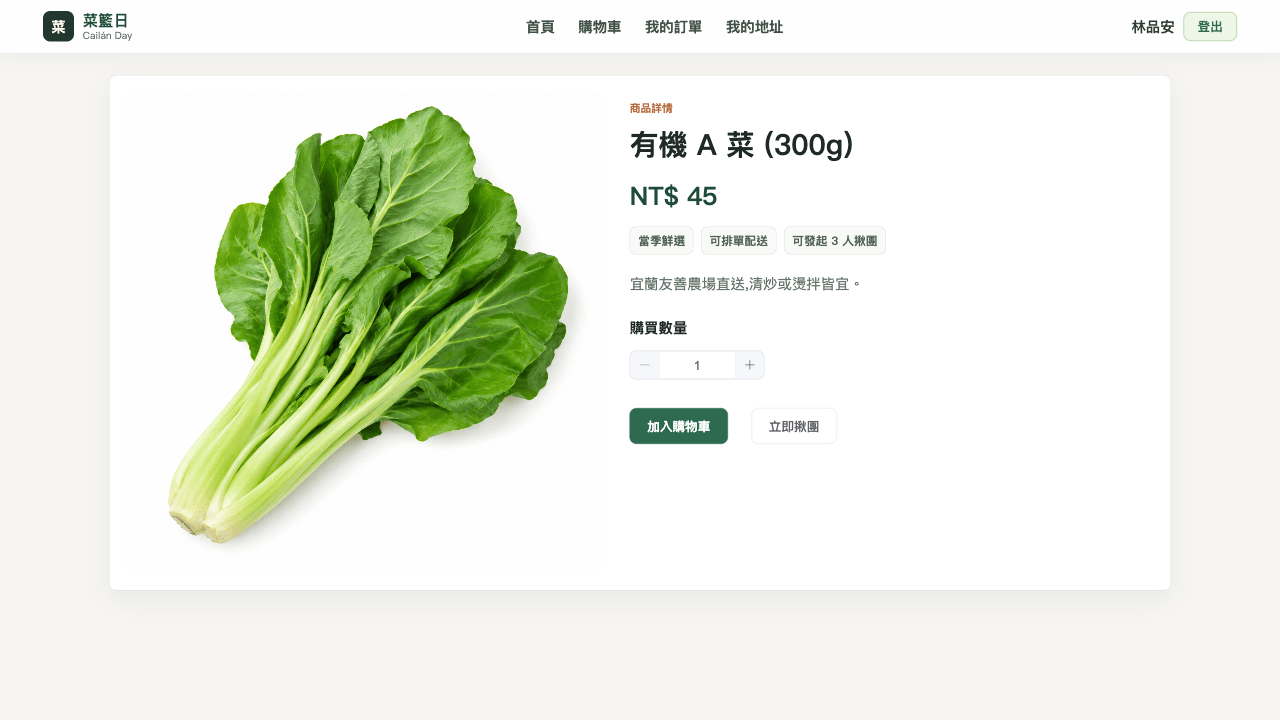
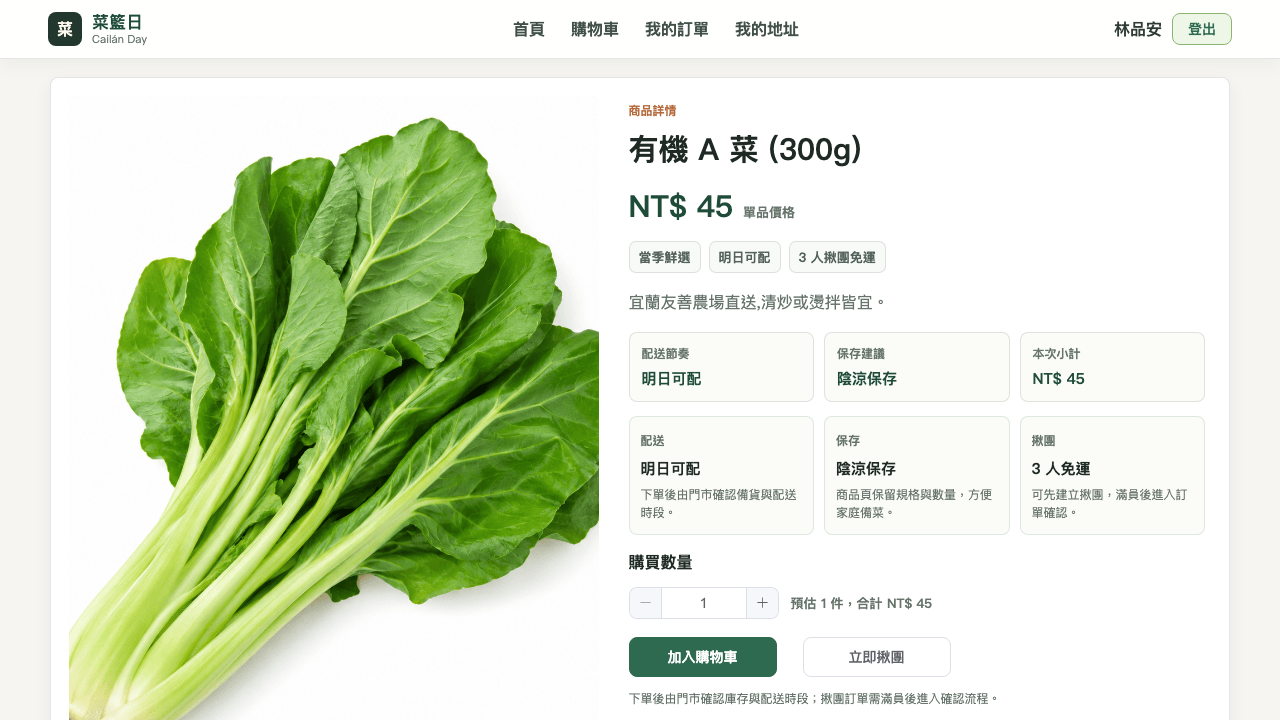
style: refine product detail conversion

diff --git a/frontend-environment/local-fresh-user/src/views/ProductDetailView.vue b/frontend-environment/local-fresh-user/src/views/ProductDetailView.vue
@@ -12,13 +12,31 @@
         <div class="content-panel">
           <p class="eyebrow">商品詳情</p>
           <h1>{{ product.productName }}</h1>
-          <p class="price">NT$ {{ formatPrice(product.price) }}</p>
+          <div class="price-row">
+            <p class="price">NT$ {{ formatPrice(product.price) }}</p>
+            <span>{{ unitLabel }}</span>
+          </div>
           <div class="detail-meta">
             <span>{{ product.categoryName || '當季鮮選' }}</span>
-            <span>可排單配送</span>
-            <span>可發起 3 人揪團</span>
+            <span>{{ deliverySignal }}</span>
+            <span>3 人揪團免運</span>
           </div>
           <p class="description">{{ product.description || '來自在地產區的當季鮮選，適合日常料理與家庭備菜。' }}</p>
+
+          <div class="purchase-summary" aria-label="商品採買摘要">
+            <div>
+              <span>配送節奏</span>
+              <strong>{{ deliverySignal }}</strong>
+            </div>
+            <div>
+              <span>保存建議</span>
+              <strong>{{ storageSignal }}</strong>
+            </div>
+            <div>
+              <span>本次小計</span>
+              <strong>NT$ {{ formatPrice(lineTotal) }}</strong>
+            </div>
+          </div>
 
           <div class="assurance-grid" aria-label="購買與配送資訊">
             <section v-for="item in purchaseAssurance" :key="item.label" class="assurance-item">
@@ -43,16 +61,32 @@
 
           <div class="quantity-panel">
             <h2>購買數量</h2>
-            <el-input-number v-model="quantity" :min="1" :max="99" />
+            <div class="quantity-row">
+              <el-input-number v-model="quantity" :min="1" :max="99" />
+              <span>預估 {{ quantity }} 件，合計 NT$ {{ formatPrice(lineTotal) }}</span>
+            </div>
           </div>
 
           <div class="actions">
             <el-button type="success" size="large" :loading="submittingCart" @click="handleAddToCart">
               加入購物車
             </el-button>
-            <el-button size="large" :loading="groupBuySubmitting" @click="openGroupBuyDialog">
+            <el-button size="large" plain :loading="groupBuySubmitting" @click="openGroupBuyDialog">
               立即揪團
             </el-button>
+          </div>
+
+          <p class="action-note">下單後由門市確認庫存與配送時段；揪團訂單需滿員後進入確認流程。</p>
+
+          <div class="route-panel" aria-label="採買路徑">
+            <div>
+              <strong>一般採買</strong>
+              <span>加入購物車後可與其他商品一起結算。</span>
+            </div>
+            <div>
+              <strong>揪團免運</strong>
+              <span>建立 3 人團，分享連結邀請朋友加入。</span>
+            </div>
           </div>
         </div>
       </div>
@@ -267,24 +301,59 @@ const specOptions = computed(() => {
   }))
 })
 
+const categoryName = computed(() => product.value?.categoryName || '')
+
+const isColdChainProduct = computed(() =>
+  categoryName.value.includes('海鮮') || categoryName.value.includes('肉')
+)
+
+const isChilledProduct = computed(() =>
+  isColdChainProduct.value || categoryName.value.includes('蛋') || categoryName.value.includes('奶')
+)
+
+const deliverySignal = computed(() => {
+  if (isColdChainProduct.value) {
+    return '冷鏈排單'
+  }
+  if (isChilledProduct.value) {
+    return '冷藏配送'
+  }
+  return '明日可配'
+})
+
+const storageSignal = computed(() => {
+  if (isColdChainProduct.value) {
+    return '收到後冷凍'
+  }
+  if (isChilledProduct.value) {
+    return '收到後冷藏'
+  }
+  return '陰涼保存'
+})
+
+const unitLabel = computed(() => {
+  if (!selectedSpec.value) {
+    return '單品價格'
+  }
+  return selectedSpec.value
+})
+
+const lineTotal = computed(() => Number(product.value?.price || 0) * quantity.value)
+
 const purchaseAssurance = computed(() => {
   if (!product.value) {
     return []
   }
 
-  const category = product.value.categoryName || ''
-  const isColdChain = category.includes('海鮮') || category.includes('肉')
-  const isChilled = isColdChain || category.includes('蛋') || category.includes('奶')
-
   return [
     {
       label: '配送',
-      value: isColdChain ? '冷鏈排單' : isChilled ? '冷藏配送' : '明日可配',
+      value: deliverySignal.value,
       caption: '下單後由門市確認備貨與配送時段。'
     },
     {
       label: '保存',
-      value: isColdChain ? '收到後冷凍' : isChilled ? '收到後冷藏' : '陰涼保存',
+      value: storageSignal.value,
       caption: '商品頁保留規格與數量，方便家庭備菜。'
     },
     {
@@ -480,7 +549,7 @@ onMounted(() => {
 .detail-shell {
   max-width: 1180px;
   margin: 0 auto;
-  padding: 24px 0 48px;
+  padding: 18px 0 48px;
 }
 
 .detail-card {
@@ -491,7 +560,7 @@ onMounted(() => {
   border: 1px solid var(--farm-line);
   border-radius: 8px;
   background: var(--farm-surface);
-  box-shadow: 0 10px 28px rgba(28, 39, 32, 0.06);
+  box-shadow: 0 6px 18px rgba(28, 39, 32, 0.055);
 }
 
 .media-panel {
@@ -524,7 +593,7 @@ onMounted(() => {
 }
 
 .content-panel {
-  padding: 10px 6px;
+  padding: 6px 6px 4px;
 }
 
 .eyebrow {
@@ -537,15 +606,29 @@ onMounted(() => {
 h1 {
   margin: 0;
   color: var(--farm-text);
-  font-size: 32px;
+  font-size: 30px;
   line-height: 1.25;
 }
 
+.price-row {
+  display: flex;
+  flex-wrap: wrap;
+  gap: 10px;
+  align-items: baseline;
+  margin-top: 16px;
+}
+
 .price {
-  margin: 18px 0 0;
+  margin: 0;
   color: var(--farm-primary-deep);
-  font-size: 28px;
+  font-size: 30px;
   font-weight: 800;
+}
+
+.price-row span {
+  color: var(--farm-muted);
+  font-size: 13px;
+  font-weight: 750;
 }
 
 .detail-meta {
@@ -566,21 +649,50 @@ h1 {
 }
 
 .description {
-  margin: 18px 0 0;
+  margin: 16px 0 0;
   color: var(--farm-muted);
-  line-height: 1.75;
+  line-height: 1.7;
+}
+
+.purchase-summary {
+  display: grid;
+  grid-template-columns: repeat(3, minmax(0, 1fr));
+  gap: 10px;
+  margin-top: 16px;
+}
+
+.purchase-summary div {
+  min-width: 0;
+  padding: 12px;
+  border: 1px solid var(--farm-line);
+  border-radius: 8px;
+  background: #fbfcf8;
+}
+
+.purchase-summary span {
+  display: block;
+  color: var(--farm-muted);
+  font-size: 12px;
+  font-weight: 760;
+}
+
+.purchase-summary strong {
+  display: block;
+  margin-top: 6px;
+  color: var(--farm-primary-deep);
+  font-size: 15px;
 }
 
 .assurance-grid {
   display: grid;
   grid-template-columns: repeat(3, minmax(0, 1fr));
   gap: 10px;
-  margin-top: 18px;
+  margin-top: 14px;
 }
 
 .assurance-item {
   min-width: 0;
-  padding: 13px;
+  padding: 11px;
   border: 1px solid rgba(47, 111, 78, 0.14);
   border-radius: 8px;
   background: #fbfcf8;
@@ -608,7 +720,7 @@ h1 {
 
 .specs-panel,
 .quantity-panel {
-  margin-top: 24px;
+  margin-top: 16px;
 }
 
 .specs-panel h2,
@@ -619,11 +731,63 @@ h1 {
   font-size: 16px;
 }
 
+.quantity-row {
+  display: flex;
+  flex-wrap: wrap;
+  gap: 12px;
+  align-items: center;
+}
+
+.quantity-row span {
+  color: var(--farm-muted);
+  font-size: 13px;
+  font-weight: 700;
+}
+
+.route-panel {
+  display: grid;
+  grid-template-columns: repeat(2, minmax(0, 1fr));
+  gap: 10px;
+  margin-top: 14px;
+}
+
+.route-panel div {
+  padding: 12px;
+  border: 1px solid rgba(47, 111, 78, 0.12);
+  border-radius: 8px;
+  background: #fbfcf8;
+}
+
+.route-panel strong {
+  display: block;
+  color: var(--farm-text);
+  font-size: 14px;
+}
+
+.route-panel span {
+  display: block;
+  margin-top: 6px;
+  color: var(--farm-muted);
+  font-size: 12px;
+  line-height: 1.5;
+}
+
 .actions {
   display: flex;
   gap: 14px;
-  margin-top: 32px;
+  margin-top: 18px;
   flex-wrap: wrap;
+}
+
+.actions :deep(.el-button--large) {
+  min-width: 148px;
+}
+
+.action-note {
+  margin: 12px 0 0;
+  color: var(--farm-muted);
+  font-size: 12px;
+  line-height: 1.6;
 }
 
 .dialog-body {
@@ -743,6 +907,11 @@ h1 {
   h1 {
     font-size: 28px;
   }
+
+  .purchase-summary,
+  .route-panel {
+    grid-template-columns: 1fr;
+  }
 }
 
 @media (max-width: 560px) {
@@ -751,6 +920,10 @@ h1 {
   }
 
   .assurance-grid {
+    grid-template-columns: 1fr;
+  }
+
+  .purchase-summary {
     grid-template-columns: 1fr;
   }
 

diff --git a/README.en.md b/README.en.md
@@ -40,9 +40,9 @@ The catalog combines category navigation, sorting, price filters, product metada
 
 ![Product List](docs/screenshots/02-product-list.png)
 
-### 3. Product Detail — Two Checkout Paths
+### 3. Product Detail — Product Decision and Dual Purchase Paths
 
-Either "Add to Cart" for batch checkout, or "Start Group Buy" to launch a 3-person free-shipping group.
+Price, delivery timing, storage guidance, subtotal, quantity, and the "Add to Cart / Start Group Buy" actions are visible in the first viewport, clearly separating standard checkout from 3-person free-shipping group buy.
 
 ![Product Detail](docs/screenshots/03-product-detail.png)
 

diff --git a/README.md b/README.md
@@ -41,9 +41,9 @@
 
 ![商品列表](docs/screenshots/02-product-list.png)
 
-### 3. 商品詳情 — 購物車與揪團雙路徑
+### 3. 商品詳情 — 商品決策與雙購買路徑
 
-可選「加入購物車」累積後一次結算,或「立即揪團」直接發起 3 人成團免運。
+價格、配送節奏、保存建議、小計、數量與「加入購物車 / 立即揪團」集中在首屏，讓一般採買與 3 人揪團免運路徑清楚分流。
 
 ![商品詳情](docs/screenshots/03-product-detail.png)
 
